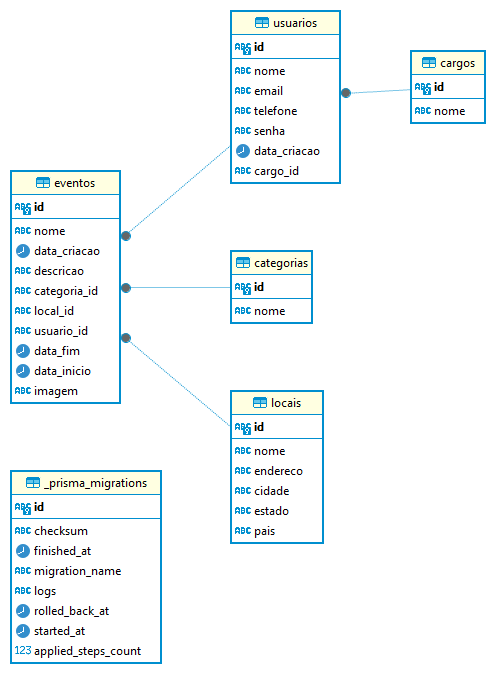
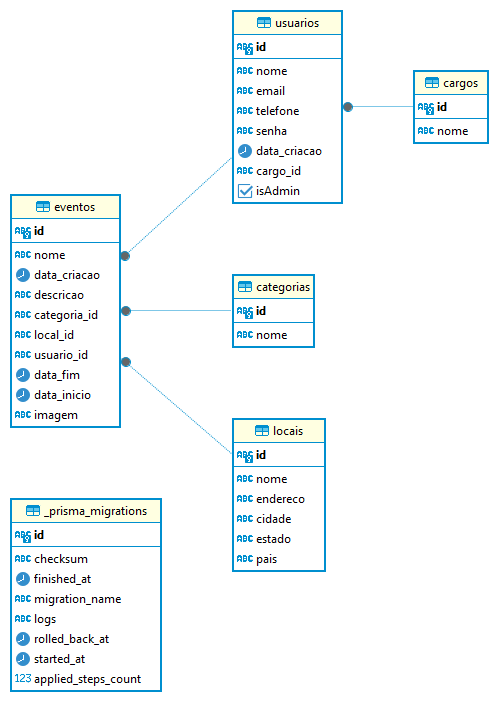
refactor: ajustes na documentação com base nas atualizações

diff --git a/README.md b/README.md
@@ -36,24 +36,16 @@ Antes de utilizar o projeto, certifique-se de seguir as seguintes etapas:
 > Com o repositório clonado, execute os comandos abaixo (no diretório do projeto):
 
 - **Para baixar as dependências**: `npm install`;
-- **Crie um arquivo com o nome** `.env` e insira nele o código que está no arquivo `.env.example` e realize os ajustes necessários.
+- **Crie um arquivo com o nome** `.env`, insira nele o código que está no arquivo `.env.example` e realize os ajustes necessários.
 
-  1. **DATABASE_URL**: insira sua senha em '`senhaDoBanco`' e o nome o nome do banco de dados '`nomeDoBanco`' para o projeto em questão.
+  1. **DATABASE_URL**: insira sua senha em '`senhaDoBanco`' e o nome do banco de dados '`nomeDoBanco`' para o projeto em questão.
   1. **SECRET_JWT**: modifique a chave fornecida por outra de sua preferência.
-  1. **ROLE_VISITANTE**: O sistema terá 3 tipos de usuários/cargos - 1. `admin`, 2. `organizador`, 3. `visitante`. **Após cadastro do visitante**, insira o `id` deste cargo na variável em questão.
+  
 
 >[!IMPORTANT]
 > 
-> Para a criação dos cargos acesse o arquivo `roleRoutes.js` e remova o middleware `authorization` do `método POST`;
->
-> Como está: `roleRoutes.post('/role', authorization, validation.valitadeRoleData, roleController.createRole);`
->
-> Como deve ficar: `roleRoutes.post('/role', validation.valitadeRoleData, roleController.createRole);`
->
-> **Após criação de TODOS os cargos**, adicione o o middleware `authorization` novamente.
->
-> ⚠ **Atenção**: A cada alteração na rota faz-se necessária a reinicialização do projeto - `npm start` - para que o mesmo funcione corretamente (certifique-se de salvar o arquivo antes);
->
+> Para a criação dos cargos é necessário cadastrar um usuário como admin e realizar o login.
+> - O sistema foi pensado para ter 3 cargos: 1. `admin`, 2. `organizador`, 3. `visitante` ou `público`. 
 > 
 
 - **Esquemas do banco de dados**: execute o comando `npx prisma migrate dev` após a criação do banco e a configuração do mesmo no arquivo **.env**;
@@ -73,9 +65,9 @@ As estruturas de dados necessárias para o funcionamento do sistema foram defini
 
 - **Categorias**: Representa as categorias dos eventos.
 - **Locais**: Descreve os locais onde os eventos ocorrerão.
-- **Eventos**: Contém informações sobre os eventos, incluindo nome, descrição, datas e relacionamentos com categorias e locais.
+- **Eventos**: Contém informações sobre os eventos, incluindo `nome, descrição, datas e relacionamentos com categorias e locais`.
 - **Cargos**: Define os cargos dos usuários.
-- **Usuários**: Armazena dados dos usuários, incluindo nome, email, telefone, senha e cargo.
+- **Usuários**: Armazena dados dos usuários, incluindo `nome, email, telefone, senha, cargo e isAdmin`.
 
 <div style="text-align: center;">
     <h4>ER Diagrama </h4>
